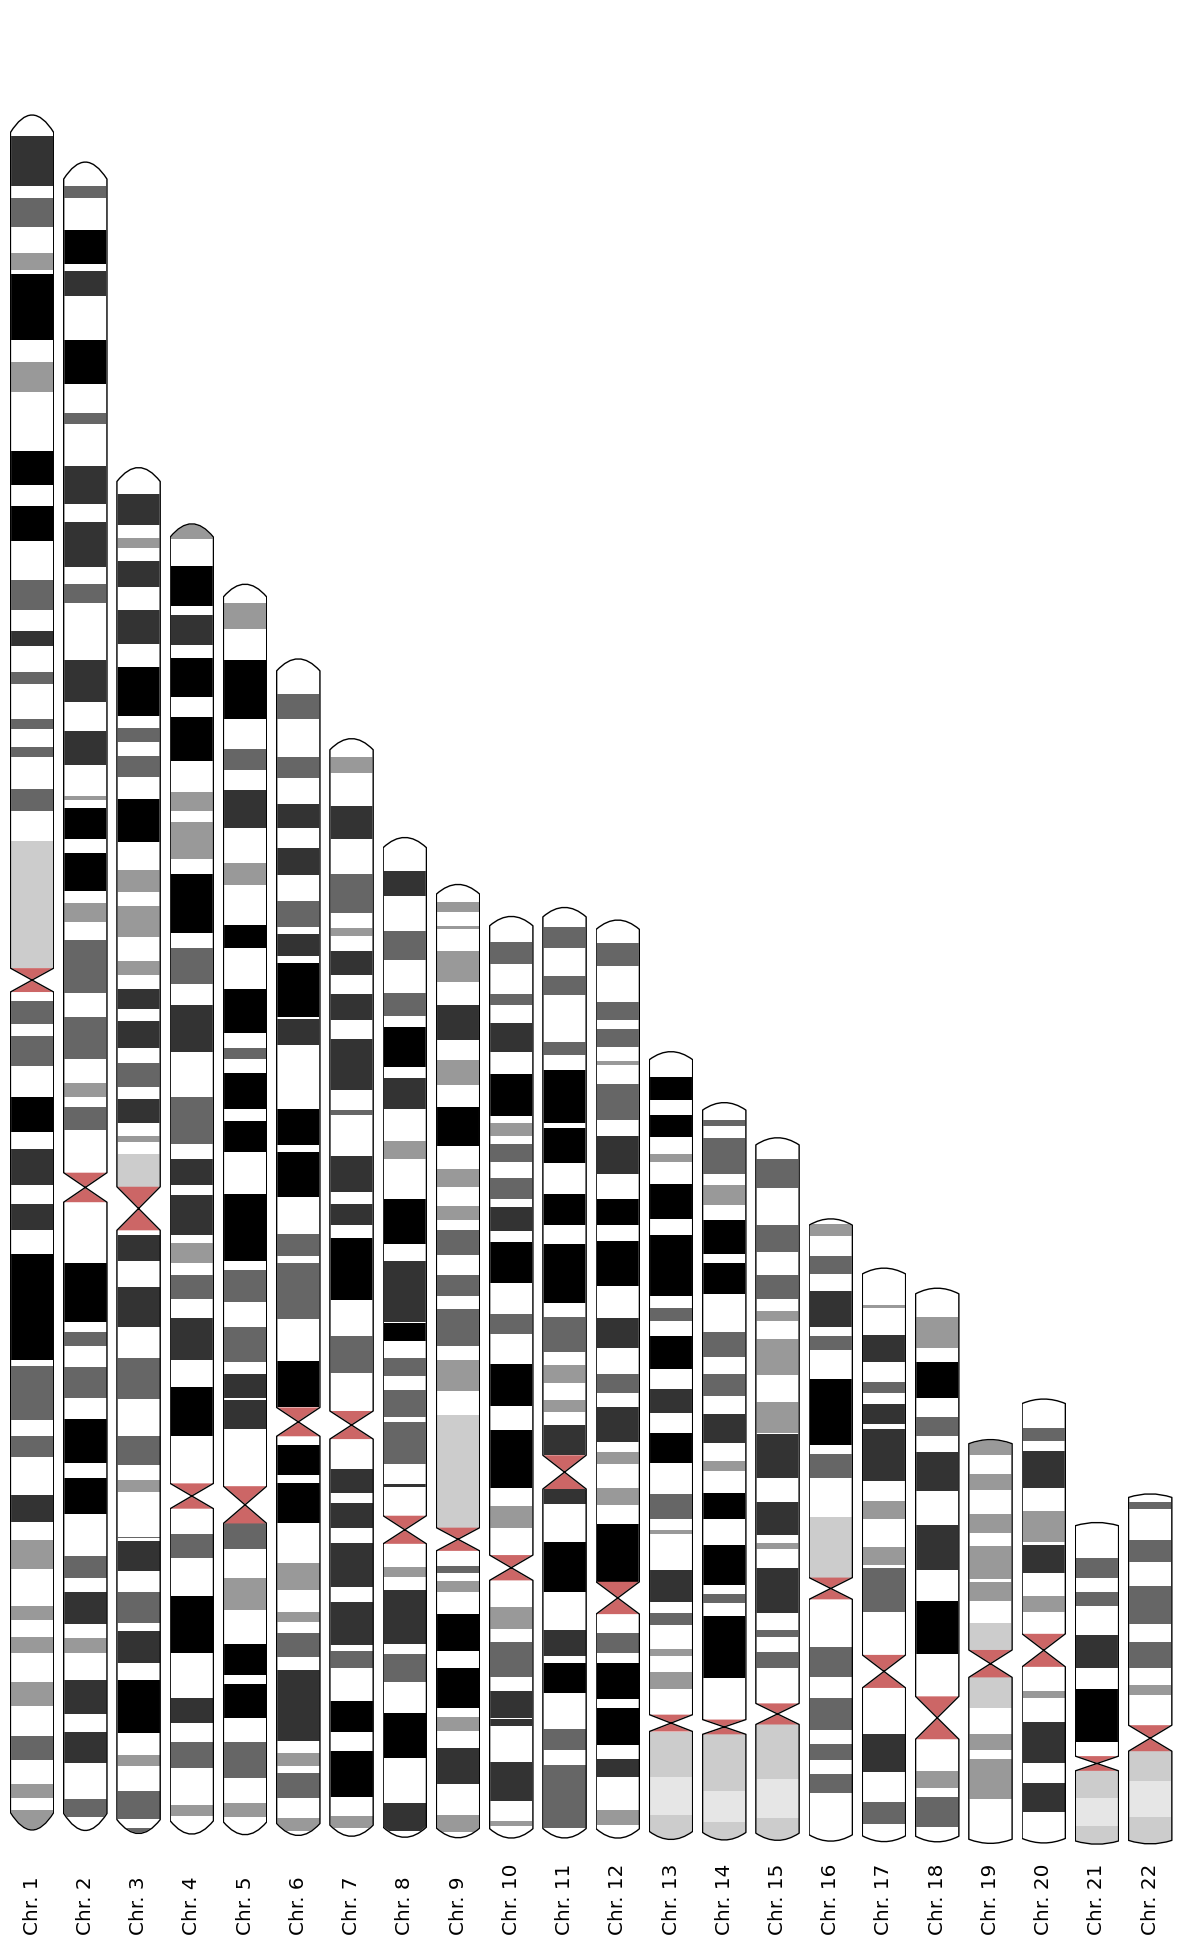
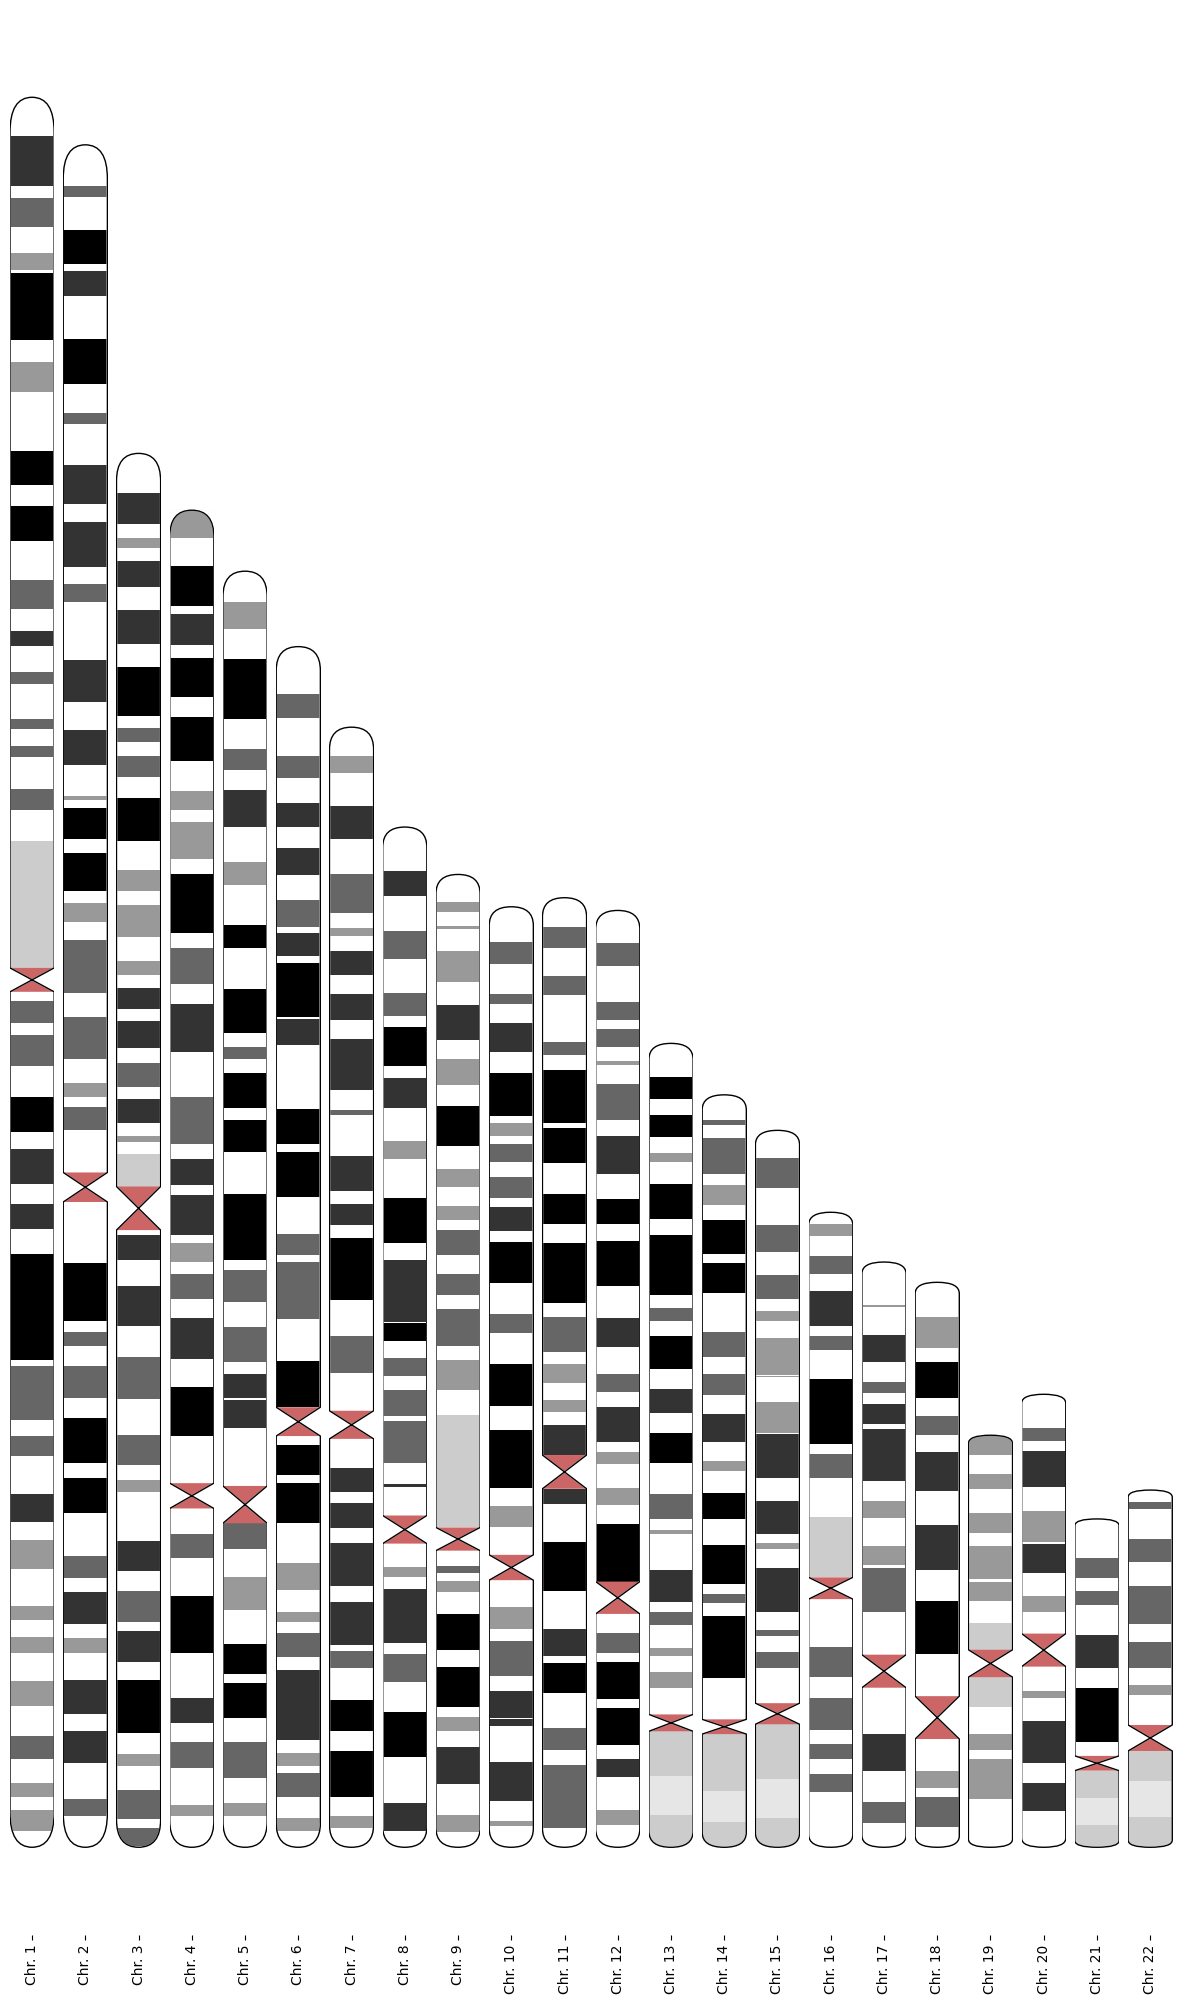
Enhance plot_ideogram function to support label customization and update tests for chromosome 3

Changed region(s): [[0.0, 0.0617, 1.0, 1.0]]

diff --git a/src/pyryotype/ideogram.py b/src/pyryotype/ideogram.py
@@ -9,6 +9,7 @@ from matplotlib.axes._secondary_axes import SecondaryAxis
 from matplotlib.patches import PathPatch, Rectangle
 from matplotlib.path import Path as MplPath
 from matplotlib.typing import ColorType
+from matplotlib.text import Text
 from matplotlib.gridspec import SubplotSpec
 from matplotlib.gridspec import GridSpec as gs
 from matplotlib.gridspec import GridSpecFromSubplotSpec as gsFromSubplotSpec
@@ -161,6 +162,7 @@ def plot_ideogram(
     target_region_extent: float = 0.3,
     label: str | None = None,
     label_placement: Literal["height", "length"] = "height",
+    label_kwargs: dict = None,
     vertical: Orientation = Orientation.HORIZONTAL,
     regions: list[tuple[int, int, ColorType]] | None = None,
     cytobands_df: pd.DataFrame = None,
@@ -198,19 +200,21 @@ def plot_ideogram(
 
     >>> import matplotlib.pyplot as plt
     >>> fig, ax = plt.subplots()
-    >>> ax = plot_ideogram(ax, "chr1", start=50, stop=250, y_label="Chromosome 1")
+    >>> ax = plot_ideogram(ax, "chr1", start=50, stop=250, label="Chromosome 1")
     >>> ax.get_xlim()  # To test if the ideogram was plotted (not a direct measure but gives an idea)
     (-71574971.325, 256487353.7655)
 
     # Test behaviour with a non-existent chromosome
-    >>> ax = plot_ideogram(ax, "chr_1", start=50, stop=250, y_label="Chromosome 1")# doctest: +IGNORE_EXCEPTION_DETAIL
+    >>> ax = plot_ideogram(ax, "chr_1", start=50, stop=250, label="Chromosome 1")# doctest: +IGNORE_EXCEPTION_DETAIL
     Traceback (most recent call last):
     ValueError: Chromosome chr_1 not found in cytoband data. Should be one of ...
 
     """
-    # TODO: various kwds params for passing through to other methods
-    
+    if label_kwargs is None:
+        label_kwargs = dict()
     # some checks for input before we start
+    if label is not None:
+        assert label_placement in ["height", "length"], "label_placement must be either 'height' or 'length'"
     if start is not None and stop is not None:        
         assert start < stop, "Start must be less than stop"
     if regions is not None:
@@ -277,22 +281,42 @@ def plot_ideogram(
         (MplPath.LINETO, ((cen_start + cen_end)/2, ymid)),
         (MplPath.LINETO, (cen_end, height)),
         (MplPath.LINETO, (chr_end_without_curve, height)),
-        # Bottom part
+        (MplPath.CURVE3, (chr_end, height)),
         (MplPath.CURVE3, (chr_end, ymid)),
+        # Bottom part
+        (MplPath.CURVE3, (chr_end, lower_anchor)),
+        (MplPath.CURVE3, (chr_end_without_curve, lower_anchor)),
         (MplPath.LINETO, (chr_end_without_curve, lower_anchor)),
         (MplPath.LINETO, (cen_end, lower_anchor)),
         (MplPath.LINETO, ((cen_start + cen_end)/2, ymid)),
         (MplPath.LINETO, (cen_start, lower_anchor)),
         (MplPath.LINETO, (chr_start_without_curve, lower_anchor)),
+        (MplPath.CURVE3, (chr_start, lower_anchor)),
         (MplPath.CURVE3, (chr_start, ymid)),
-        (MplPath.LINETO, (chr_start_without_curve, height)),
-        (MplPath.CLOSEPOLY,(chr_start_without_curve, height))
+        (MplPath.CURVE3, (chr_start, height)),
+        (MplPath.CURVE3, (chr_start_without_curve, height)),
+        (MplPath.MOVETO, (chr_start_without_curve, height))
     ]
+    def invert_with_curve(outline):
+        outline = outline[::-1]
+        new_outline = outline.copy()
+        i = 0
+        while i < len(outline):
+            if outline[i][0] == MplPath.CURVE3:
+                j = i + 1
+                while j < len(outline) and outline[j][0] == MplPath.CURVE3:
+                    j += 1
+                new_outline[i:j] = outline[i+1:j] + [(MplPath.CURVE3, outline[j][1])] 
+                i = j + 1
+            else:
+                i += 1
+        return new_outline
+    
     outside_outline = [(MplPath.MOVETO,(chr_start, height)),
                        (MplPath.LINETO,(chr_end, height)),
                        (MplPath.LINETO,(chr_end, lower_anchor)),
                        (MplPath.LINETO,(chr_start, lower_anchor)),
-                       (MplPath.CLOSEPOLY,(chr_start, lower_anchor))] + outline[::-1]
+                       (MplPath.CLOSEPOLY,(chr_start, lower_anchor))] + invert_with_curve(outline)
     if vertical == Orientation.VERTICAL:
         outline = [(command, coords[::-1]) for command, coords in outline]
         cen_outline = [(command, coords[::-1]) for command, coords in cen_outline]
@@ -363,19 +387,20 @@ def plot_ideogram(
 
     if regions:
         for r_start, r_stop, r_colour in regions:
-            x0, width = r_start, r_stop - r_start
+            x0, rwidth = r_start, r_stop - r_start
             y0 = lower_anchor + 0.02
             # print(f"x0 {x0}, width {width}, height: he")
+            rheight = height
             if vertical == Orientation.VERTICAL:
                 x0 = lower_anchor + 0.03
                 y0 = r_start
-                height = width
-                width = 0.94
+                rheight = rwidth
+                rwidth = 0.94
 
             r = Rectangle(
                 (x0, y0),  # +0.01 should shift us off outline of chromosome
-                width=width,
-                height=height,
+                width=rwidth,
+                height=rheight,
                 fill=kwargs.get("fill", True),
                 color=r_colour,
                 joinstyle="round",
@@ -440,29 +465,38 @@ def plot_ideogram(
             
         x = [i for i,(l,u) in enumerate(zip(locs[:-1],locs[1:])) if to_place  > l and to_place <= u]
         if x:
-            locs.insert(x[0], to_place)
-            labs.insert(x[0], label)
+           pos = x[0]
         else:
             if locs and to_place > locs[-1]:
-                locs.append(to_place)
-                labs.append(label)
+                pos = len(locs)
             else:
-                locs.insert(0, to_place)
-                labs.insert(0, label)
+                pos = 0
+        locs.insert(pos, to_place)
+        labs.insert(pos, label)
+    
         if label_placement == "height":
             if vertical == Orientation.VERTICAL:
                 sec.set_xticks(locs, labs)
+                if label_kwargs:
+                    plt.setp(sec.get_xticklabels()[pos], **label_kwargs)
                 sec.spines["bottom"].set_visible(False)
             else:
                 sec.set_yticks(locs, labs)
+                if label_kwargs:
+                    plt.setp(sec.get_yticklabels()[pos], **label_kwargs)
                 sec.spines["left"].set_visible(False)
         else:
             if vertical == Orientation.VERTICAL:
                 sec.set_yticks(locs, labs)
+                if label_kwargs:
+                    plt.setp(sec.get_yticklabels()[pos], **label_kwargs)
                 sec.spines["left"].set_visible(False)
             else:
                 sec.set_xticks(locs, labs)
+                if label_kwargs:
+                    plt.setp(sec.get_xticklabels()[pos], **label_kwargs)
                 sec.spines["bottom"].set_visible(False)
+        sec.tick_params(axis=u'both', which=u'both',length=0)
         
     return ax
 

diff --git a/tests/test_ideogram_plotting.py b/tests/test_ideogram_plotting.py
@@ -8,7 +8,7 @@ from pyryotype.ideogram import GENOME, Detail, Orientation
 OUT_DIR = Path(__file__).parent.parent / "example_outputs"
 
 
-def test_simple_vertical_chr1():
+def test_simple_vertical_chr3():
     fig, ax = plt.subplots(
         ncols=1,
         nrows=1,
@@ -16,9 +16,20 @@ def test_simple_vertical_chr1():
         facecolor="white",
     )
 
-    plot_ideogram(ax, target="chr1", left_margin=0, y_label="", vertical=Orientation.VERTICAL)
+    plot_ideogram(ax, target="chr3", left_margin=0, label="", vertical=Orientation.VERTICAL)
 
-    fig.savefig(OUT_DIR / "testing_vert.png", bbox_inches="tight")
+    fig.savefig(OUT_DIR / "testing_vert_chr3.png", bbox_inches="tight")
+def test_simple_horizontal_chr3():
+    fig, ax = plt.subplots(
+        ncols=1,
+        nrows=1,
+        figsize=(25, 3),
+        facecolor="white",
+    )
+
+    plot_ideogram(ax, target="chr3", left_margin=0, label="", vertical=Orientation.HORIZONTAL)
+
+    fig.savefig(OUT_DIR / "testing_horz_chr3.png", bbox_inches="tight")
     
 def test_simple_horizontal_chr1():
     fig, ax = plt.subplots(
@@ -28,9 +39,9 @@ def test_simple_horizontal_chr1():
         facecolor="white",
     )
 
-    plot_ideogram(ax, target="chr1", left_margin=0, y_label="", vertical=Orientation.HORIZONTAL)
+    plot_ideogram(ax, target="chr1", left_margin=0, label="", vertical=Orientation.HORIZONTAL)
 
-    fig.savefig(OUT_DIR / "testing_horz.png", bbox_inches="tight")
+    fig.savefig(OUT_DIR / "testing_horz_chr1.png", bbox_inches="tight")
     
 
 def test_simple_vertical_chr1_start_stop():
@@ -41,9 +52,9 @@ def test_simple_vertical_chr1_start_stop():
         facecolor="white",
     )
 
-    plot_ideogram(ax, target="chr1", left_margin=0, y_label="", vertical=Orientation.VERTICAL, start=150000, stop=50000000)
+    plot_ideogram(ax, target="chr1", left_margin=0, label="", vertical=Orientation.VERTICAL, start=150000, stop=50000000)
 
-    fig.savefig(OUT_DIR / "testing_vert_start_stop.png", bbox_inches="tight")
+    fig.savefig(OUT_DIR / "testing_vert_chr1_start_stop.png", bbox_inches="tight")
     
     
 def test_simple_horizontal_chr1_start_stop_zoom():
@@ -54,7 +65,7 @@ def test_simple_horizontal_chr1_start_stop_zoom():
         facecolor="white",
     )
 
-    plot_ideogram(ax, target="chr1", left_margin=0, y_label="", vertical=Orientation.HORIZONTAL, start=150000, stop=50000000, zoom=True)
+    plot_ideogram(ax, target="chr1", left_margin=0, label="", vertical=Orientation.HORIZONTAL, start=150000, stop=50000000, zoom=True)
 
     fig.savefig(OUT_DIR / "testing_horz_start_stop_zoom.png", bbox_inches="tight")
     
@@ -65,7 +76,9 @@ def test_23_vertical_chm13():
 
     for ax, i in zip(axes, chain(range(1, 23), iter("XY")), strict=True):
         _ax = plot_ideogram(
-            ax, target=f"chr{i}", y_label=f"Chr. {i}", left_margin=0, vertical=Orientation.VERTICAL, genome=genome
+            ax, target=f"chr{i}", label=f"Chr. {i}", 
+            left_margin=0, vertical=Orientation.VERTICAL, genome=genome,
+            label_kwargs={"rotation": 90}
         )
 
     fig.savefig(OUT_DIR / "testing_vert_23.png", bbox_inches="tight")
@@ -77,8 +90,10 @@ def test_23_vertical_hg38():
 
     for ax, i in zip(axes, chain(range(1, 23)), strict=True):
         _ax = plot_ideogram(
-            ax, target=f"chr{i}", y_label=f"Chr. {i}", left_margin=0, 
-            vertical=Orientation.VERTICAL, genome=genome, relative=True
+            ax, target=f"chr{i}", label=f"Chr. {i}", left_margin=0, 
+            label_kwargs={"rotation": 90},
+            vertical=Orientation.VERTICAL, 
+            genome=genome, relative=True
         )
 
     fig.savefig(OUT_DIR / "testing_vert_23_hg38.png", bbox_inches="tight")
@@ -90,7 +105,10 @@ def test_23_vertical_hg19():
 
     for ax, i in zip(axes, chain(range(1, 23)), strict=True):
         _ax = plot_ideogram(
-            ax, target=f"chr{i}", y_label=f"Chr. {i}", left_margin=0, vertical=Orientation.VERTICAL, genome=genome
+            ax, target=f"chr{i}", label=f"Chr. {i}", 
+            left_margin=0, vertical=Orientation.VERTICAL, 
+            label_kwargs={"rotation": 90},
+            genome=genome
         )
 
     fig.savefig(OUT_DIR / "testing_vert_23_hg19.png", bbox_inches="tight")
@@ -104,9 +122,10 @@ def test_23_vertical_chm13_bare():
         _ax = plot_ideogram(
             ax,
             target=f"chr{i}",
-            y_label=f"Chr. {i}",
+            label=f"Chr. {i}",
             left_margin=0,
             vertical=Orientation.VERTICAL,
+            label_kwargs={"rotation": 90},
             cytobands=Detail.BARE,
             genome=genome,
         )
@@ -122,7 +141,7 @@ def test_23_horizontal_chm13_bare():
         _ax = plot_ideogram(
             ax,
             target=f"chr{i}",
-            y_label=f"Chr. {i}",
+            label=f"Chr. {i}",
             left_margin=0,
             vertical=Orientation.HORIZONTAL,
             cytobands=Detail.BARE,
@@ -142,14 +161,15 @@ def test_23_vertical_chm13_regions():
         _ax = plot_ideogram(
             ax,
             target=f"chr{i}",
-            y_label=f"Chr. {i}",
+            label=f"Chr. {i}",
             left_margin=0,
             vertical=Orientation.VERTICAL,
+            label_kwargs={"rotation": 90},
             genome=genome,
             regions=regions,
         )
 
-    fig.savefig(OUT_DIR / "testing_vert_23_regions.png", bbox_inches="tight")
+    fig.savefig(OUT_DIR / "testing_vert_23_regions_chm13.png", bbox_inches="tight")
 
 
 def test_23_horz_chm13_regions():
